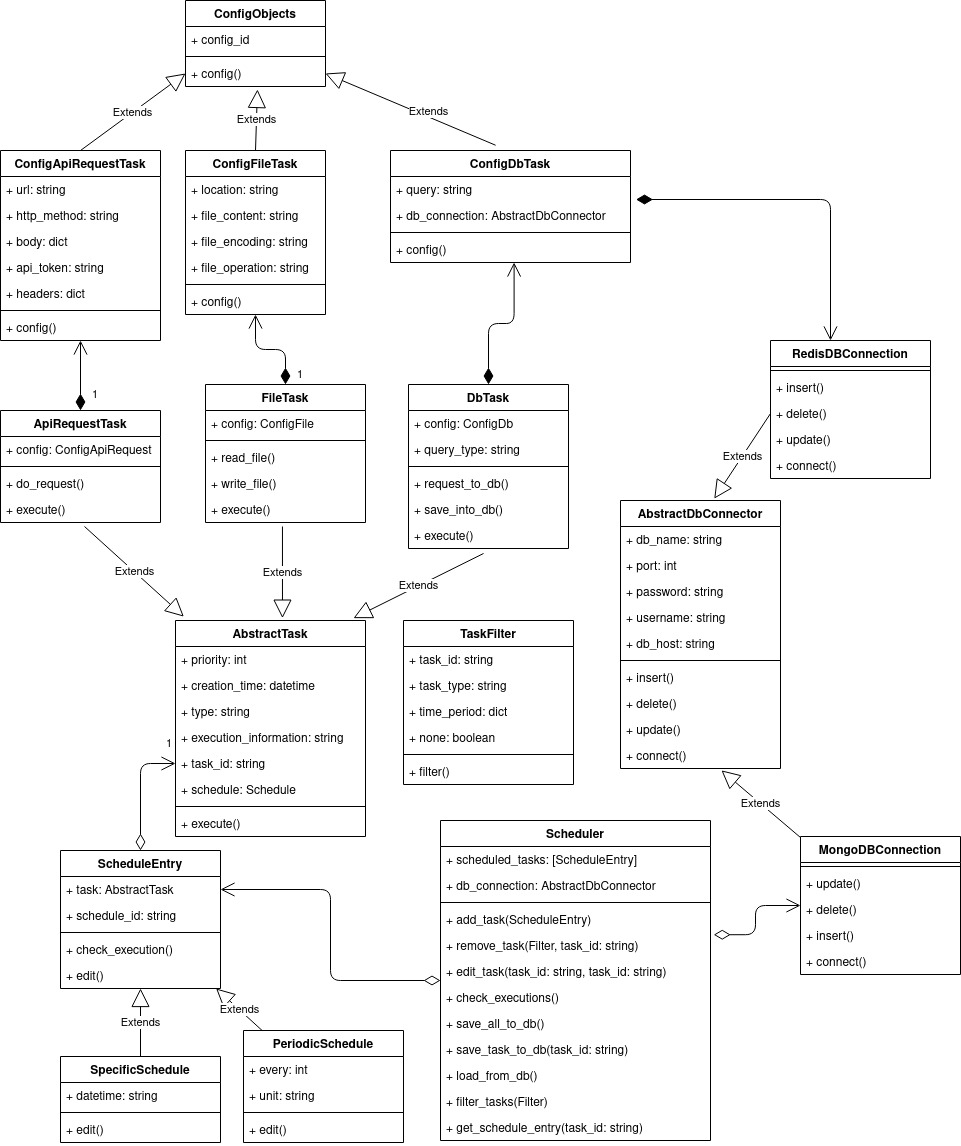
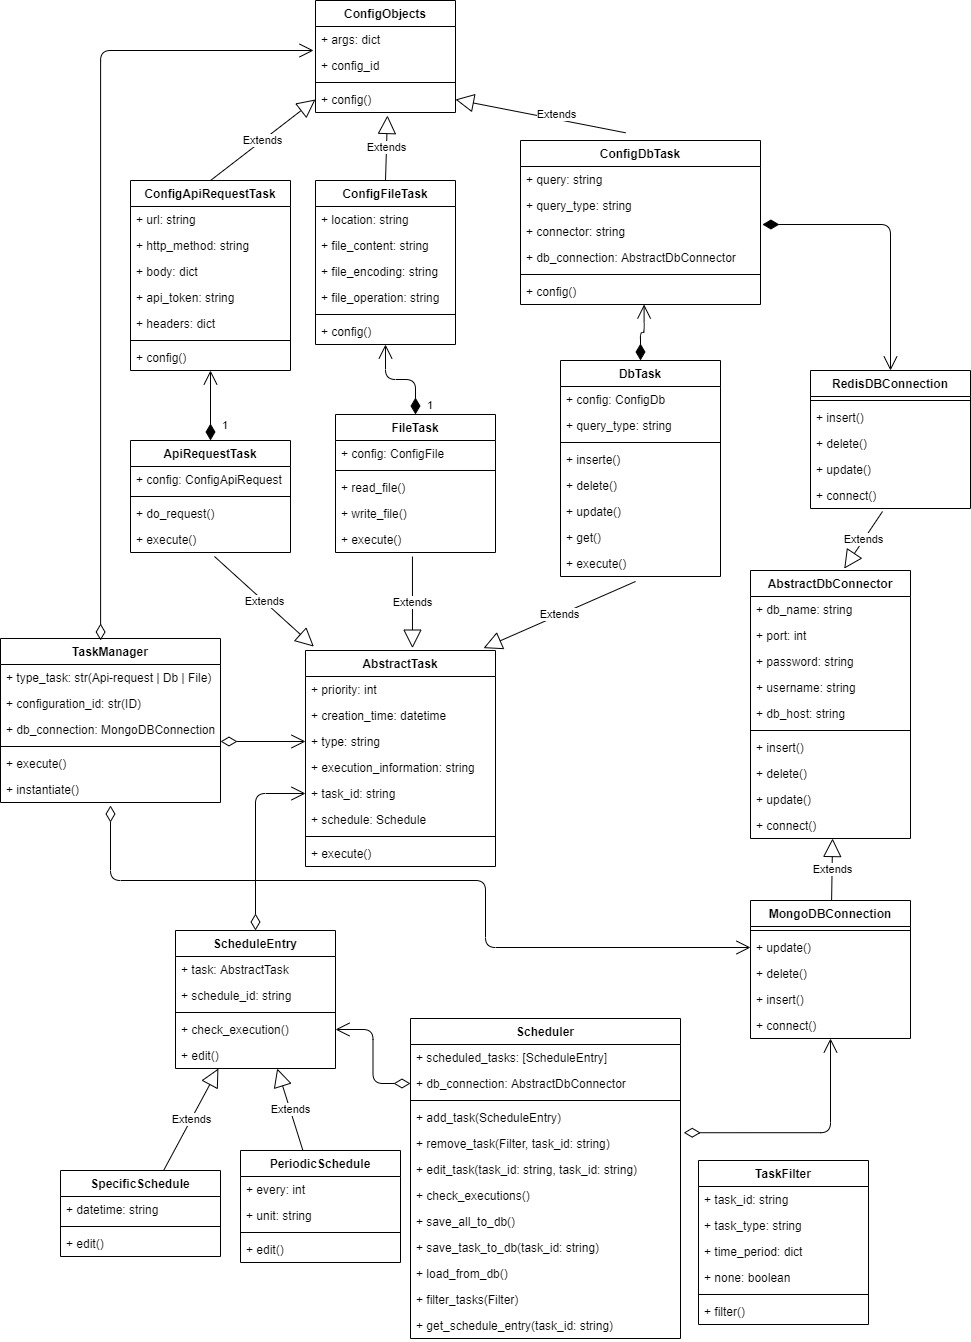
Added TaskManager to the class diagram and update mongo-schema

diff --git a/docs/Mongo-schema.md b/docs/Mongo-schema.md
@@ -68,7 +68,7 @@ For Api-request
 ```json
 {
   "config_id": "config_1521bd71-f491-89a3-7a41-4462ccb791ad",
-  "type": "Api-request",
+  "config_type": "Api-request",
   "url": "https://reqbin.com/echo/post/json",
   "http_method": "POST",
   "headers": {
@@ -91,9 +91,13 @@ For Db
 ```json
 {
   "config_id": "config_3391bd81-f491-89a3-7d41-4412ccb79111",
-  "type": "Db",
+  "key_id": "Config-1",
+  "config_type": "Db",
   "query_type": "update",
-  "query": "HSET clave1 nuevovalor",
+  "query": {
+    "data_aux": "something",
+    "note": "something"
+  },
   "connector": {
     "db_name": "1",
     "port": 6379,
@@ -109,7 +113,7 @@ For file
 ```json
 {
   "config_id": "config_cc91b571-6291-19aa-7db1-2d1273b79190",
-  "type": "File",
+  "config_type": "File",
   "location": "nuevo_archivo.txt",
   "file_operation": "write",
   "file_content": "probando contenido...",
